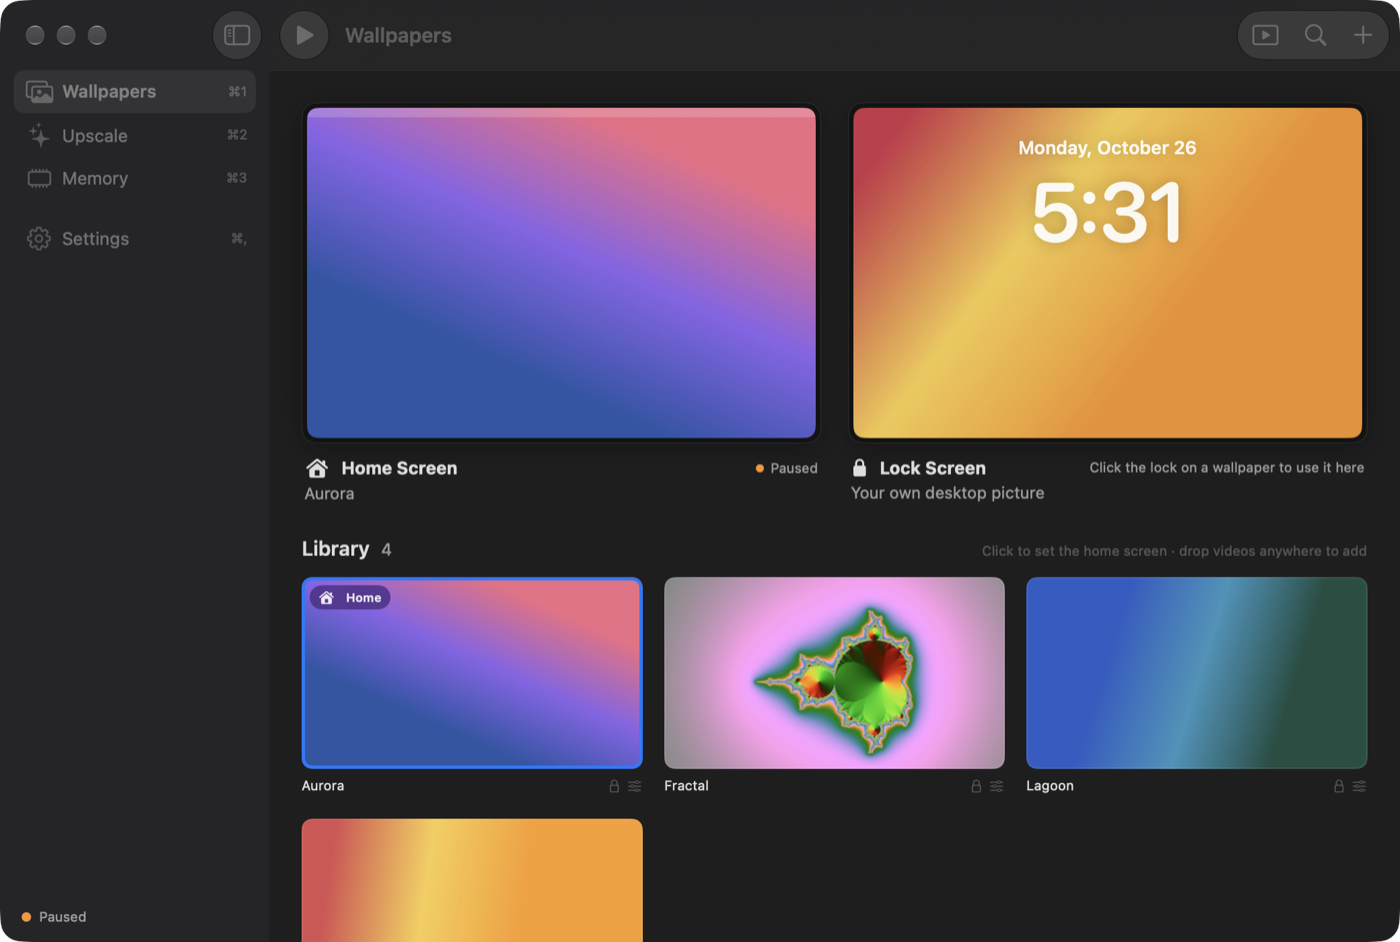
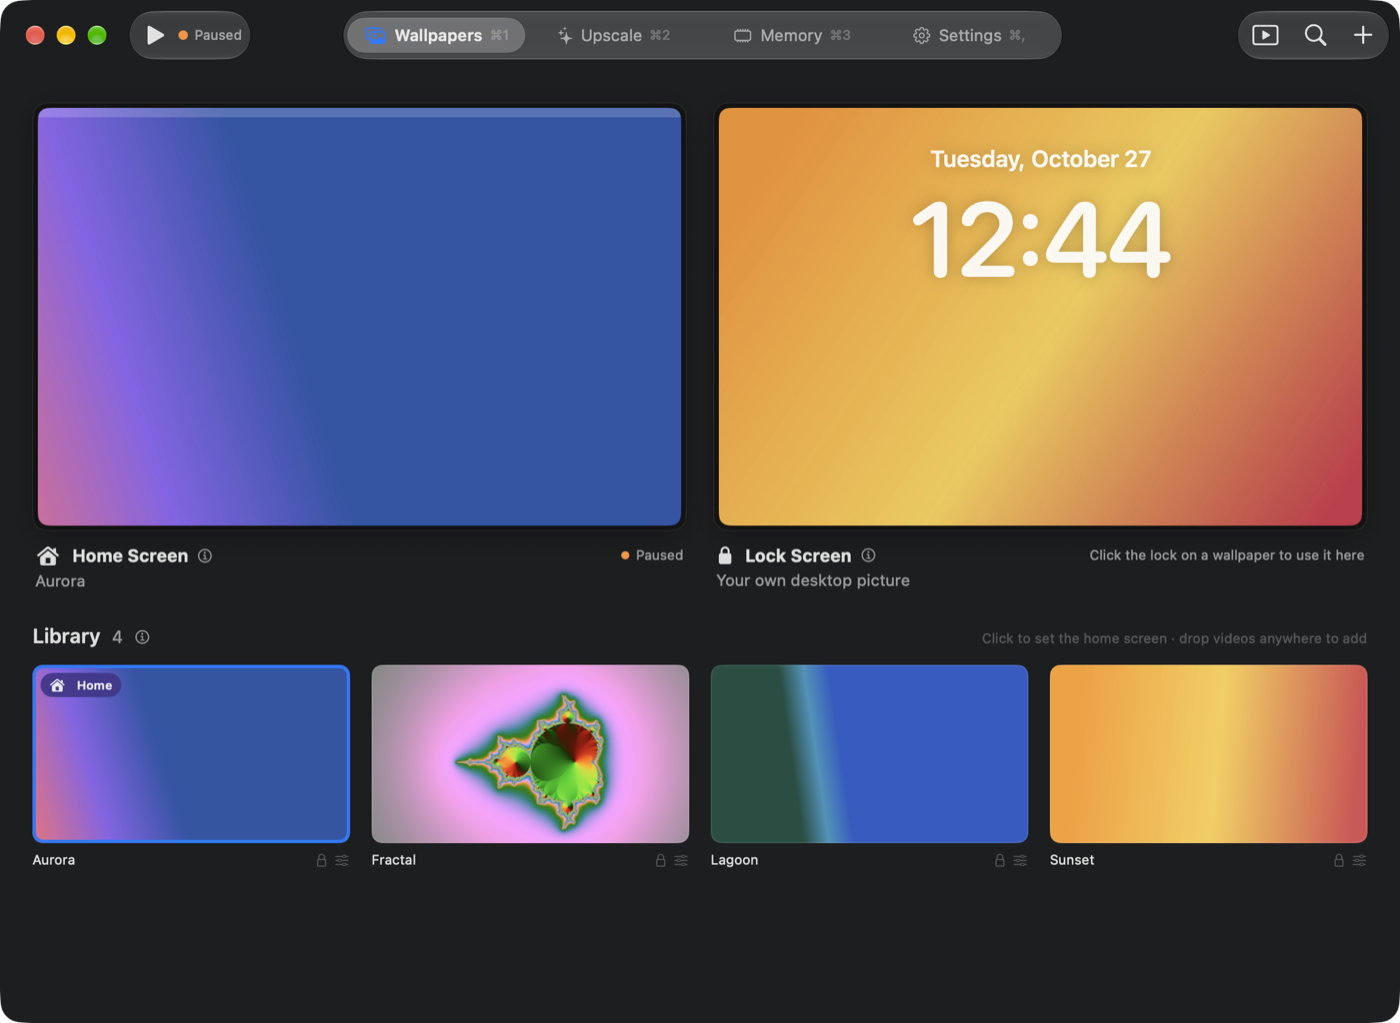
Replace the sidebar with toolbar tabs, and animate section changes
The sidebar took a column of mostly empty space. Sections are now a compact
tab switcher centred in the toolbar: a pill glides to the chosen tab
(critically damped spring), pages slide in from the side you're moving
toward while the old one fades out quickly, notices slide in, the library
grid animates additions and removals, and the home preview cross-fades when
the wallpaper changes. Reduce Motion turns these into short fades. Playback
status and pause move to the toolbar's left; the window title is hidden
since the tabs show where you are. New README screenshot.

diff --git a/Sources/LiveWallpaper/WindowView.swift b/Sources/LiveWallpaper/WindowView.swift
@@ -1,22 +1,24 @@
 import AVFoundation
 import SwiftUI
 
-/// The app window: a sidebar of sections, each section's actions in the toolbar.
+/// The app window: sections as tabs in the toolbar (no sidebar), each section's actions beside them.
 struct WindowView: View {
     @ObservedObject var model: AppModel
     @Environment(\.accessibilityReduceMotion) private var reduceMotion
 
     var body: some View {
-        NavigationSplitView {
-            Sidebar(model: model)
-                .navigationSplitViewColumnWidth(min: 180, ideal: 200, max: 260)
-        } detail: {
-            detail
-                .frame(maxWidth: .infinity, maxHeight: .infinity, alignment: .topLeading)
-                .navigationTitle(model.tab.rawValue)
-                .overlay { if model.isDropTargeted { DropOverlay(tab: model.tab).transition(dropTransition) } }
-                .animation(reduceMotion ? .easeOut(duration: 0.15) : .spring(response: 0.3, dampingFraction: 1), value: model.isDropTargeted)
+        ZStack {
+            page(model.tab)
+                .id(model.tab)
+                .transition(pageTransition)
         }
+        .frame(maxWidth: .infinity, maxHeight: .infinity, alignment: .topLeading)
+        .clipped()
+        .animation(reduceMotion ? .easeInOut(duration: 0.2) : .spring(response: 0.38, dampingFraction: 1), value: model.tab)
+        .overlay { if model.isDropTargeted { DropOverlay(tab: model.tab).transition(dropTransition) } }
+        .animation(reduceMotion ? .easeOut(duration: 0.15) : .spring(response: 0.3, dampingFraction: 1), value: model.isDropTargeted)
+        .navigationTitle(model.tab.rawValue)
+        .toolbar { toolbar }
         .frame(minWidth: 860, minHeight: 580)
         .tint(model.prefs.accent.color)
         .sheet(isPresented: Binding(get: { model.editor != nil }, set: { if !$0 { model.closeEditor(save: false) } })) {
@@ -37,46 +39,65 @@ struct WindowView: View {
         }
     }
 
+    /// Pages slide in from the side you're heading to and out the other way (a fade with Reduce Motion).
+    private var pageTransition: AnyTransition {
+        guard !reduceMotion else { return .opacity }
+        let dx: CGFloat = model.tabMovedForward ? 36 : -36
+        // The old page leaves quickly so the two never read as one jumbled page mid-switch.
+        return .asymmetric(insertion: .opacity.combined(with: .offset(x: dx)),
+                           removal: .opacity.combined(with: .offset(x: -dx)).animation(.easeOut(duration: 0.12)))
+    }
+
     private var dropTransition: AnyTransition {
         reduceMotion ? .opacity : .opacity.combined(with: .scale(scale: 0.98))
     }
 
-    @ViewBuilder private var detail: some View {
-        switch model.tab {
-        case .wallpapers:
-            ScrollView { WallpapersPane(model: model).padding(24) }
-                .toolbar { wallpaperToolbar }
-        case .upscale:
-            ScrollView { UpscaleView(studio: model.studio, model: model).padding(24) }
-                .toolbar {
-                    ToolbarItem(placement: .primaryAction) {
-                        Button { model.studio.choose() } label: { Label("Choose File", systemImage: "plus") }
-                            .help("Choose a video, GIF or image to upscale (⌘O)")
-                            .disabled(model.studio.isBusy)
-                    }
-                }
-        case .memory:
-            MemoryView(cleaner: model.memory, needed: memoryNeed).padding(24)
-        case .settings:
-            SettingsPane(model: model)
+    @ViewBuilder private func page(_ tab: AppModel.Tab) -> some View {
+        switch tab {
+        case .wallpapers: ScrollView { WallpapersPane(model: model).padding(24) }
+        case .upscale: ScrollView { UpscaleView(studio: model.studio, model: model).padding(24) }
+        case .memory: MemoryView(cleaner: model.memory, needed: memoryNeed).padding(24)
+        case .settings: SettingsPane(model: model)
         }
     }
 
-    @ToolbarContentBuilder private var wallpaperToolbar: some ToolbarContent {
-        ToolbarItem(placement: .navigation) {
+    @ToolbarContentBuilder private var toolbar: some ToolbarContent {
+        ToolbarItemGroup(placement: .navigation) {
             Button { model.gate.userPaused.toggle() } label: {
                 Label(model.gate.userPaused ? "Resume" : "Pause", systemImage: model.gate.userPaused ? "play.fill" : "pause.fill")
             }
             .disabled(model.current == nil || model.isCurrentBroken)
             .help(model.gate.userPaused ? "Resume the wallpaper (⌥⌘P)" : "Pause the wallpaper (⌥⌘P)")
+            let status = model.status
+            HStack(spacing: 5) {
+                Circle().fill(status.color).frame(width: 7, height: 7)
+                Text(status.text).lineLimit(1)
+            }
+            .font(.caption).foregroundStyle(.secondary)
+            .fixedSize()
+            .padding(.trailing, 6)
+            .help(status.text)
+            .accessibilityIdentifier("status")
+        }
+        ToolbarItem(placement: .principal) {
+            TabSwitcher(model: model)
         }
         ToolbarItemGroup(placement: .primaryAction) {
-            Button { model.addFromYouTube() } label: { Label("YouTube", systemImage: "play.rectangle") }
-                .help("Add a wallpaper from a YouTube link (⌘L)")
-            Button { model.startScan() } label: { Label("Find Videos", systemImage: "magnifyingglass") }
-                .help("Find videos on this Mac that could be wallpapers (⇧⌘F)")
-            Button { model.addVideos() } label: { Label("Add Video", systemImage: "plus") }
-                .help("Add a video or GIF (⌘O)")
+            switch model.tab {
+            case .wallpapers:
+                Button { model.addFromYouTube() } label: { Label("YouTube", systemImage: "play.rectangle") }
+                    .help("Add a wallpaper from a YouTube link (⌘L)")
+                Button { model.startScan() } label: { Label("Find Videos", systemImage: "magnifyingglass") }
+                    .help("Find videos on this Mac that could be wallpapers (⇧⌘F)")
+                Button { model.addVideos() } label: { Label("Add Video", systemImage: "plus") }
+                    .help("Add a video or GIF (⌘O)")
+            case .upscale:
+                Button { model.studio.choose() } label: { Label("Choose File", systemImage: "plus") }
+                    .help("Choose a video, GIF or image to upscale (⌘O)")
+                    .disabled(model.studio.isBusy)
+            case .memory, .settings:
+                EmptyView()
+            }
         }
     }
 
@@ -89,45 +110,55 @@ struct WindowView: View {
     }
 }
 
-// MARK: - Sidebar
+// MARK: - Tabs
 
-private struct Sidebar: View {
+/// The sections as a compact segmented switcher; a pill glides to the chosen tab.
+private struct TabSwitcher: View {
     @ObservedObject var model: AppModel
+    @Environment(\.accessibilityReduceMotion) private var reduceMotion
+    /// Wider when the ⌘ hints are shown so labels never crowd.
+    private var tabWidth: CGFloat { model.prefs.showShortcutHints ? 132 : 112 }
 
     var body: some View {
-        List(selection: Binding<AppModel.Tab?>(get: { model.tab }, set: { if let tab = $0 { model.tab = tab } })) {
-            Section {
-                ForEach([AppModel.Tab.wallpapers, .upscale, .memory], id: \.self, content: row)
-            }
-            Section {
-                row(.settings)
+        let tabs = AppModel.Tab.allCases
+        let index = CGFloat(tabs.firstIndex(of: model.tab) ?? 0)
+        HStack(spacing: 0) {
+            ForEach(tabs, id: \.self) { tab in
+                let selected = tab == model.tab
+                Button { model.tab = tab } label: {
+                    HStack(spacing: 5) {
+                        Image(systemName: tab.symbol)
+                            .foregroundStyle(selected ? AnyShapeStyle(.tint) : AnyShapeStyle(.secondary))
+                        Text(tab.rawValue)
+                        if model.prefs.showShortcutHints {
+                            Text(shortcut(tab)).font(.caption2).foregroundStyle(.tertiary)
+                        }
+                    }
+                    .font(.callout.weight(selected ? .semibold : .regular))
+                    .foregroundStyle(selected ? .primary : .secondary)
+                    .frame(width: tabWidth, height: 26)
+                    .contentShape(Capsule())
+                }
+                .buttonStyle(.plain)
+                .help("\(tab.rawValue) (\(shortcut(tab)))")
+                .accessibilityAddTraits(selected ? .isSelected : [])
             }
         }
-        .listStyle(.sidebar)
-        .safeAreaInset(edge: .bottom) {
-            let status = model.status
-            HStack(spacing: 6) {
-                Circle().fill(status.color).frame(width: 7, height: 7)
-                Text(status.text).lineLimit(1).truncationMode(.tail)
-            }
-            .font(.caption)
-            .foregroundStyle(.secondary)
-            .frame(maxWidth: .infinity, alignment: .leading)
-            .padding(.horizontal, 16).padding(.vertical, 12)
-            .accessibilityIdentifier("status")
+        .background(alignment: .leading) {
+            Capsule()
+                .fill(Color(nsColor: .controlColor))
+                .shadow(color: .black.opacity(0.18), radius: 2, y: 1)
+                .overlay(Capsule().strokeBorder(Color.primary.opacity(0.08), lineWidth: 0.5))
+                .frame(width: tabWidth, height: 26)
+                .offset(x: index * tabWidth)
+                .animation(reduceMotion ? .easeOut(duration: 0.15) : .spring(response: 0.32, dampingFraction: 1), value: model.tab)
         }
+        .padding(3)
+        .background(Capsule().fill(Color.primary.opacity(0.06)))
     }
 
-    private func row(_ tab: AppModel.Tab) -> some View {
-        HStack {
-            Label(tab.rawValue, systemImage: tab.symbol)
-            Spacer()
-            if model.prefs.showShortcutHints {
-                Text(tab == .settings ? "⌘," : "⌘\((AppModel.Tab.allCases.firstIndex(of: tab) ?? 0) + 1)")
-                    .font(.caption).foregroundStyle(.tertiary)
-            }
-        }
-        .tag(tab)
+    private func shortcut(_ tab: AppModel.Tab) -> String {
+        tab == .settings ? "⌘," : "⌘\((AppModel.Tab.allCases.firstIndex(of: tab) ?? 0) + 1)"
     }
 }
 
@@ -135,6 +166,7 @@ private struct Sidebar: View {
 
 private struct WallpapersPane: View {
     @ObservedObject var model: AppModel
+    @Environment(\.accessibilityReduceMotion) private var reduceMotion
 
     var body: some View {
         let lib = model.library
@@ -157,6 +189,7 @@ private struct WallpapersPane: View {
                             upscale: notice.upscale.map { url in { model.upscale(url); model.library.dismiss(notice) } },
                             dismiss: { model.library.dismiss(notice) }
                         )
+                        .transition(.move(edge: .top).combined(with: .opacity))
                     }
                 }
             }
@@ -181,6 +214,9 @@ private struct WallpapersPane: View {
                 }
             }
         }
+        .animation(reduceMotion ? nil : .spring(response: 0.35, dampingFraction: 1), value: lib.notices.map(\.id))
+        .animation(reduceMotion ? nil : .spring(response: 0.35, dampingFraction: 1), value: lib.videos)
+        .animation(reduceMotion ? nil : .easeInOut(duration: 0.3), value: model.current)
     }
 
     private func name(_ url: URL?) -> String? { url?.deletingPathExtension().lastPathComponent }

diff --git a/Sources/LiveWallpaper/AppModel.swift b/Sources/LiveWallpaper/AppModel.swift
@@ -40,7 +40,14 @@ final class AppModel: ObservableObject {
             }
         }
     }
-    var tab: Tab = .wallpapers { didSet { objectWillChange.send() } }
+    var tab: Tab = .wallpapers {
+        didSet {
+            tabMovedForward = (Tab.allCases.firstIndex(of: tab) ?? 0) >= (Tab.allCases.firstIndex(of: oldValue) ?? 0)
+            objectWillChange.send()
+        }
+    }
+    /// Whether the last tab change moved right (pages slide in from that side).
+    private(set) var tabMovedForward = true
     let memory = MemoryCleaner()
     let studio = UpscaleStudio()
     /// A model being downloaded from Settings / the model list.

diff --git a/Sources/LiveWallpaper/main.swift b/Sources/LiveWallpaper/main.swift
@@ -59,6 +59,7 @@ final class AppDelegate: NSObject, NSApplicationDelegate, NSWindowDelegate {
             )
             window.title = "LiveWallpaper"
             window.toolbarStyle = .unified
+            window.titleVisibility = .hidden // the tabs show where you are
             let host = NSHostingController(rootView: WindowView(model: model))
             host.sizingOptions = .minSize // let the user resize; SwiftUI only enforces the minimum
             host.sceneBridgingOptions = [.title, .toolbars] // SwiftUI's title and toolbar drive the window's

diff --git a/README.md b/README.md
@@ -51,7 +51,7 @@ A tiny native macOS menu bar app that plays a looping video as your desktop wall
   - *is broken* — a damaged file that neither macOS nor ffmpeg can read
   - *couldn't be converted* — decoded but failed to re-encode or save
   - damaged videos already in the library, and videos that fail during playback, show a red *Broken* tile
-- **Menu bar panel and a full Mac window.** The panel is for quick picks. The window has a sidebar (Wallpapers, Upscale, Memory, Settings), each section's actions in the toolbar, and live miniatures of your home screen (the wallpaper actually playing) and lock screen (with the clock drawn over it). It's resizable and full-screen capable.
+- **Menu bar panel and a full Mac window.** The panel is for quick picks. The window puts its sections (Wallpapers, Upscale, Memory, Settings) as tabs in the toolbar — a pill glides to the one you pick and pages slide in the direction you move (a cross-fade with Reduce Motion) — with each section's actions beside them, playback status on the left, and live miniatures of your home screen (the wallpaper actually playing) and lock screen (with the clock drawn over it). It's resizable and full-screen capable.
 - **Keyboard shortcuts:** ⌘1–⌘3 switch sections, ⌘, opens Settings, ⌘O adds a video, ⌘L adds from YouTube, ⇧⌘F finds videos on this Mac, ⌥⌘P pauses or resumes.
 - **ⓘ on everything.** Every setting, section and model has an ⓘ button that explains what it does.
 - **Lots of settings** (each with an ⓘ):
@@ -130,7 +130,7 @@ macOS doesn't let apps draw on the lock screen — only Apple's own aerial wallp
 Sources/LiveWallpaper/
   main.swift             app entry, menu bar panel & window
   AppModel.swift         state: home/lock wallpapers, editor, upscaling, settings
-  WindowView.swift       the window: sidebar, toolbar, home/lock previews
+  WindowView.swift       the window: toolbar tabs, page transitions, home/lock previews
   SettingsView.swift     Settings, with an ⓘ on every option
   Prefs.swift            every customisation, stored in UserDefaults
   Updater.swift          checks GitHub releases, verifies and installs updates in place
